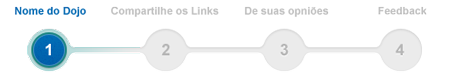
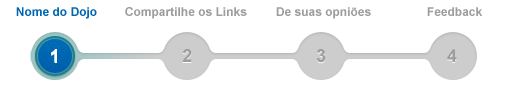
Alterada a barra de progresso para div com background(futuro menu)

diff --git a/static/css/style.min.css b/static/css/style.min.css
@@ -1,1 +1,1 @@
-html,body{height:100%}body{font-family:'Open Sans',sans-serif;background:url(/static/img/background.jpg);margin:0 auto}.conteudo{min-height:100%;min-width:1000px;position:relative}.templo{margin:auto;width:400px;height:108px;background-repeat:no-repeat;background-position:bottom;margin-bottom:70px}h2.titulo_centro{text-align:center}.title_input{margin-top:40px;text-align:center}img.logo{margin:15px;position:absolute;background-repeat:no-repeat;bottom:0;right:0}.footer{clear:both;width:100%;height:90px}.com{width:400px;height:180px}.submit{margin:10px;width:102px;height:30px;border:0;font:14px Verdana,Geneva,Arial,Helvetica,sans-serif;background-image:url(../img/bg_submit.png);background-position:center;background-repeat:repeat-x;background-color:inherit;color:#FFF;-moz-border-radius:5px 5px 5px 5px;-webkit-border-radius:5px 5px 5px 5px;border-radius:5px 5px 5px 5px;box-shadow:1px 1px 2px #000;-moz-box-shadow:1px 1px 2px #000;-webkit-box-shadow:1px 1px 2px,#000;cursor:pointer;padding:0;font-weight:bold;text-shadow:0 1px 2px #000}.submit:hover{opacity:.80}.submit_green{background-image:url(../img/bg_submit_green.png)}.submit_red{background-image:url(../img/bg_submit_red.png)}.palco{position:relative;height:296px;background:url(../img/palco.png);background-position:center;background-repeat:no-repeat}.links{min-width:500px;background-color:#EEE;font-size:15px;font-family:arial,Verdana;moz-border-radius:5px;-webkit-border-radius:5px;border-radius:5px;box-shadow:1px 2px 5px #666;-moz-box-shadow:1px 2px 5px #666;-webkit-box-shadow:1px 2px 5px,#666;float:left;clear:left;position:relative;top:60px;left:50%;margin:5px 5px 5px -260px;padding:5px}.links a{width:160px;float:left;text-decoration:none;margin:-5px 10px -5px -5px;padding:5px;color:#000;background-color:rgba(200,200,200,0.7);moz-border-radius:5px 0 0 5px;-webkit-border-radius:5px 0 0 5px;border-radius:5px 0 0 5px;text-shadow:0 1px 2px #FFF}.links a:hover{background-color:#e1e1e1}.nome{position:relative;display:table;margin:auto;margin-top:-163px;background-color:#069;padding:5px 10px 5px 10px;color:#FFF;-moz-border-radius:5px 5px 5px 5px;-webkit-border-radius:5px 5px 5px 5px;border-radius:5px 5px 5px 5px;box-shadow:0 5px 5px #888;font-weight:bold}.nome:hover{background-color:#39c}.container{width:100%;min-width:900px;text-align:center;height:auto}.form_novo{width:100%;text-align:center}.salvar{margin:20px 0 0 0;text-align:center}.comentarios_feed{float:left;width:47.5%;min-height:320px;margin:10px 1% 15px 1%;-moz-border-radius:5px 5px 5px 5px;-webkit-border-radius:5px 5px 5px 5px;border-radius:5px 5px 5px 5px;border:1px solid #CCC;background-color:rgba(255,255,255,0.6);overflow:auto;position:relative;-moz-user-select:none;-khtml-user-select:none;-webkit-user-select:none;-o-user-select:none}.comentarios_feed:hover{border:1px solid #E85;background-color:rgba(255,245,230,0.7);cursor:pointer}.comentarios_feed h2{margin:0 0 5px 10px;padding:5px;text-align:left}.comentarios_feed ul{list-style:none;margin:0;padding:10px}.comentarios_feed li{margin:0 50px 0 50px;padding:20px 10px 20px 10px;border-bottom:1px solid #CCC}.comentarios_feed .mensagem{visibility:visible;color:#FFF;font-size:24px;width:100%;text-align:center;position:absolute;top:122px}.comentarios_feed .esconder_mensagem{visibility:hidden}.comentarios_feed li:last-child{border:0}.esconder_comentarios{background-color:#000;opacity:.2}.esconder_comentarios:hover{border:1px solid #CCC;background-color:rgba(0,0,0,0.6)}.esconder_comentarios div{visibility:hidden}.esconder_comentarios h2{color:#FFF}.erro{margin-top:100px;text-align:center}.progresso{background-color:rgba(255,255,255,0.5);-moz-border-radius:0 0 5px 5px;-webkit-border-radius:0 0 5px 5px;border-radius:0 0 5px 5px;box-shadow:1px 3px 5px #AAA;-moz-box-shadow:1px 3px 5px #AAA;-webkit-box-shadow:1px 3px 5px,#AAA;position:relative;left:50%;margin-left:-225px;width:450px;height:77px;margin-bottom:50px}#errors_flash_messages{color:#F30}
+html,body{height:100%}body{font-family:'Open Sans',sans-serif;background:url(/static/img/background.jpg);margin:0 auto}.conteudo{min-height:100%;min-width:1000px;position:relative}.templo{margin:auto;width:400px;padding-top:25px;height:108px;background-repeat:no-repeat;background-position:bottom;margin-bottom:70px}.menu_progresso{position:relative;left:50%;margin-left:-255px;width:509px;height:87px;margin-bottom:50px;background-repeat:no-repeat;list-style:none;padding:0}.menu_progresso_1{background-image:url(/static/img/progresso/progress_1.png)}.menu_progresso_2{background-image:url(/static/img/progresso/progress_2.png)}.menu_progresso_3{background-image:url(/static/img/progresso/progress_3.png)}.menu_progresso_4{background-image:url(/static/img/progresso/progress_4.png)}h2.titulo_centro{text-align:center}.title_input{margin-top:40px;text-align:center}img.logo{margin:15px;position:absolute;background-repeat:no-repeat;bottom:0;right:0}.footer{clear:both;width:100%;height:90px}.com{width:400px;height:180px}.submit{margin:10px;width:102px;height:30px;border:0;font:14px Verdana,Geneva,Arial,Helvetica,sans-serif;background-image:url(../img/bg_submit.png);background-position:center;background-repeat:repeat-x;background-color:inherit;color:#FFF;-moz-border-radius:5px 5px 5px 5px;-webkit-border-radius:5px 5px 5px 5px;border-radius:5px 5px 5px 5px;box-shadow:1px 1px 2px #000;-moz-box-shadow:1px 1px 2px #000;-webkit-box-shadow:1px 1px 2px,#000;cursor:pointer;padding:0;font-weight:bold;text-shadow:0 1px 2px #000}.submit:hover{opacity:.80}.submit_green{background-image:url(../img/bg_submit_green.png)}.submit_red{background-image:url(../img/bg_submit_red.png)}.palco{position:relative;height:296px;background:url(../img/palco.png);background-position:center;background-repeat:no-repeat}.links{min-width:500px;background-color:#EEE;font-size:15px;font-family:arial,Verdana;moz-border-radius:5px;-webkit-border-radius:5px;border-radius:5px;box-shadow:1px 2px 5px #666;-moz-box-shadow:1px 2px 5px #666;-webkit-box-shadow:1px 2px 5px,#666;float:left;clear:left;position:relative;top:60px;left:50%;margin:5px 5px 5px -260px;padding:5px}.links a{width:160px;float:left;text-decoration:none;margin:-5px 10px -5px -5px;padding:5px;color:#000;background-color:rgba(200,200,200,0.7);moz-border-radius:5px 0 0 5px;-webkit-border-radius:5px 0 0 5px;border-radius:5px 0 0 5px;text-shadow:0 1px 2px #FFF}.links a:hover{background-color:#e1e1e1}.nome{position:relative;display:table;margin:auto;margin-top:-163px;background-color:#069;padding:5px 10px 5px 10px;color:#FFF;-moz-border-radius:5px 5px 5px 5px;-webkit-border-radius:5px 5px 5px 5px;border-radius:5px 5px 5px 5px;box-shadow:0 5px 5px #888;font-weight:bold}.nome:hover{background-color:#39c}.container{width:100%;min-width:900px;text-align:center;height:auto}.form_novo{width:100%;text-align:center}.salvar{margin:20px 0 0 0;text-align:center}.comentarios_feed{float:left;width:47.5%;min-height:320px;margin:10px 1% 15px 1%;-moz-border-radius:5px 5px 5px 5px;-webkit-border-radius:5px 5px 5px 5px;border-radius:5px 5px 5px 5px;border:1px solid #CCC;background-color:rgba(255,255,255,0.6);overflow:auto;position:relative;-moz-user-select:none;-khtml-user-select:none;-webkit-user-select:none;-o-user-select:none}.comentarios_feed:hover{border:1px solid #E85;background-color:rgba(255,245,230,0.7);cursor:pointer}.comentarios_feed h2{margin:0 0 5px 10px;padding:5px;text-align:left}.comentarios_feed ul{list-style:none;margin:0;padding:10px}.comentarios_feed li{margin:0 50px 0 50px;padding:20px 10px 20px 10px;border-bottom:1px solid #CCC}.comentarios_feed .mensagem{visibility:visible;color:#FFF;font-size:24px;width:100%;text-align:center;position:absolute;top:122px}.comentarios_feed .esconder_mensagem{visibility:hidden}.comentarios_feed li:last-child{border:0}.esconder_comentarios{background-color:#000;opacity:.2}.esconder_comentarios:hover{border:1px solid #CCC;background-color:rgba(0,0,0,0.6)}.esconder_comentarios div{visibility:hidden}.esconder_comentarios h2{color:#FFF}.erro{margin-top:100px;text-align:center}#errors_flash_messages{color:#F30}

diff --git a/static/js/main.min.js b/static/js/main.min.js
@@ -1,1 +1,1 @@
-$(".form_novo").on("submit",function(){$.post("dojo/create/",{name:$("input[name]").val().toLowerCase()},function(a){if(a.success){host=window.location.href.replace("#","");a.dojo_link=String(a.dojo_link).replace("/","");a.feedback_link=String(a.feedback_link).replace("/","");var b=host+a.dojo_link;var c=host+a.feedback_link;var d=$(".links:eq(0)").html().match(/.*\/a\>/)[0];var e=$(".links:eq(1)").html().match(/.*\/a\>/)[0];$(".links:eq(0)").html(d+b);$(".links:eq(0)").find("a").attr("href",b);$(".links:eq(1)").html(e+c);$(".links:eq(1)").find("a").attr("href",c);$(".progresso").attr("src","/static/img/progresso/progress_2.png").attr("alt","etapa 2");$("div#errors_flash_messages").html("")}else{$("div#errors_flash_messages").html("");var f;for(f in a.errors)$("div#errors_flash_messages").append(a.errors[f]+"<br>")}});return false});$(".comentarios_feed").append('<p class="mensagem">Clique para exibir</p>');$(".comentarios_feed").addClass("esconder_comentarios").click(function(){$(this).toggleClass("esconder_comentarios");$(this).find(".mensagem").toggleClass("esconder_mensagem")});$(document).ready(function(){$(".submit").click(function(){if($(this).attr("title")=="positivo"){$("#status").attr("value","1")}else{$("#status").attr("value","2")}$("#comment_form").submit()})})
+$(".form_novo").on("submit",function(){$.post("dojo/create/",{name:$("input[name]").val().toLowerCase()},function(a){if(a.success){host=window.location.href.replace("#","");a.dojo_link=String(a.dojo_link).replace("/","");a.feedback_link=String(a.feedback_link).replace("/","");var b=host+a.dojo_link;var c=host+a.feedback_link;var d=$(".links:eq(0)").html().match(/.*\/a\>/)[0];var e=$(".links:eq(1)").html().match(/.*\/a\>/)[0];$(".links:eq(0)").html(d+b);$(".links:eq(0)").find("a").attr("href",b);$(".links:eq(1)").html(e+c);$(".links:eq(1)").find("a").attr("href",c);$(".menu_progresso").attr("class","menu_progresso menu_progresso_2");$("div#errors_flash_messages").html("")}else{$("div#errors_flash_messages").html("");var f;for(f in a.errors)$("div#errors_flash_messages").append(a.errors[f]+"<br>")}});return false});$(".comentarios_feed").append('<p class="mensagem">Clique para exibir</p>');$(".comentarios_feed").addClass("esconder_comentarios").click(function(){$(this).toggleClass("esconder_comentarios");$(this).find(".mensagem").toggleClass("esconder_mensagem")});$(document).ready(function(){$(".submit").click(function(){if($(this).attr("title")=="positivo"){$("#status").attr("value","1")}else{$("#status").attr("value","2")}$("#comment_form").submit()})})

diff --git a/static/css/style.css b/static/css/style.css
@@ -14,19 +14,43 @@ body{
     position: relative;
 }
 
-
 .templo{
     margin: auto;
     width: 400px;
+    padding-top:25px;
     height: 108px;
     background-repeat: no-repeat;
     background-position: bottom;
     margin-bottom:70px;
 }
-/*
-.templo_top{
-    padding-top: 20px;
-}*/
+
+.menu_progresso{
+    position:relative;
+    left: 50%;
+    margin-left: -255px;
+    width: 509px;
+    height: 87px;
+    margin-bottom:50px;
+    background-repeat: no-repeat;
+    list-style: none;
+    padding: 0px;
+}
+
+.menu_progresso_1{
+    background-image: url(/static/img/progresso/progress_1.png);   
+}
+
+.menu_progresso_2{
+    background-image: url(/static/img/progresso/progress_2.png);   
+}
+
+.menu_progresso_3{
+    background-image: url(/static/img/progresso/progress_3.png);   
+}
+
+.menu_progresso_4{
+    background-image: url(/static/img/progresso/progress_4.png);   
+}
 
 h2.titulo_centro{
     text-align:center;
@@ -258,23 +282,6 @@ img.logo{
 .erro{
     margin-top: 100px;
     text-align: center;
-}
-
-.progresso{
-    background-color: rgba(255,255,255,0.5);
-    -moz-border-radius: 0px 0px 5px 5px;
-    -webkit-border-radius: 0px 0px 5px 5px;
-    border-radius: 0px 0px 5px 5px;
-    box-shadow: 1px 3px 5px #AAA;
-    -moz-box-shadow: 1px 3px 5px #AAA;
-    -webkit-box-shadow: 1px 3px 5px, #AAA;
-    position:relative;
-    left: 50%;
-    margin-left: -225px;
-    width: 450px;
-    height: 77px;
-    margin-bottom:50px;
-
 }
 
 #errors_flash_messages{

diff --git a/templates/comentarios.html b/templates/comentarios.html
@@ -1,12 +1,13 @@
 {% extends "base.html" %}
 
-{% block progresso %}
-    <img width="450" height="77" alt="etapa 3" class="progresso" src="{{ url_for('static', filename='img/progresso/progress_3.png')}}" />
-{% endblock %}
-
 {% block templo %}
     <div class="templo">
         <img width="400" height="108" alt="Dojo Feedback Logo" src="{{ url_for('static', filename='img/logo_r.png') }}" />
+    </div>
+{% endblock %}
+
+{% block progresso %}
+    <div class="menu_progresso menu_progresso_3">
     </div>
 {% endblock %}
 

diff --git a/templates/feedback.html b/templates/feedback.html
@@ -1,12 +1,13 @@
 {% extends "base.html" %}
 
-{% block progresso %}
-    <img width="450" height="77" alt="etapa 4" class="progresso" src="{{ url_for('static', filename='img/progresso/progress_4.png')}}" />
-{% endblock %}
-
 {% block templo %}
     <div class="templo">
         <img width="400" height="108" alt="Dojo Feedback Logo" src="{{ url_for('static', filename='img/logo_r.png') }}" />
+    </div>
+{% endblock %}
+
+{% block progresso %}
+    <div class="menu_progresso menu_progresso_4">
     </div>
 {% endblock %}
 

diff --git a/static/js/main.js b/static/js/main.js
@@ -16,7 +16,7 @@ $('.form_novo').on('submit', function() {
             $('.links:eq(0)').find('a').attr("href", comment);
             $('.links:eq(1)').html(feedback_link + feedback);
             $('.links:eq(1)').find('a').attr("href", feedback);
-            $('.progresso').attr('src', '/static/img/progresso/progress_2.png').attr('alt', 'etapa 2');
+            $('.menu_progresso').attr('class', 'menu_progresso menu_progresso_2');
             $('div#errors_flash_messages').html('');
         }
         else{

diff --git a/templates/base.html b/templates/base.html
@@ -28,12 +28,14 @@
 </head>
 <body>
     <div class="conteudo">
-        {% block progresso%}
-        {% endblock %}
-
         {% block templo %}
             <div class="templo">
                 <img width="400" height="108" alt="Dojo Feedback Logo" src="{{ url_for('static', filename='img/logo_r.png') }}" />
+            </div>
+        {% endblock %}
+
+        {% block progresso%}
+            <div class="menu_progresso menu_progresso_1">
             </div>
         {% endblock %}
 

diff --git a/templates/dojo.html b/templates/dojo.html
@@ -1,7 +1,8 @@
 {% extends "base.html" %}
 
 {% block progresso %}
-    <img width="450" height="77" alt="etapa 1" class="progresso" src="{{ url_for('static', filename='img/progresso/progress_1.png')}}" />
+    <div class="menu_progresso menu_progresso_1">
+    </div>
 {% endblock %}
 
 {% block conteudo %}
